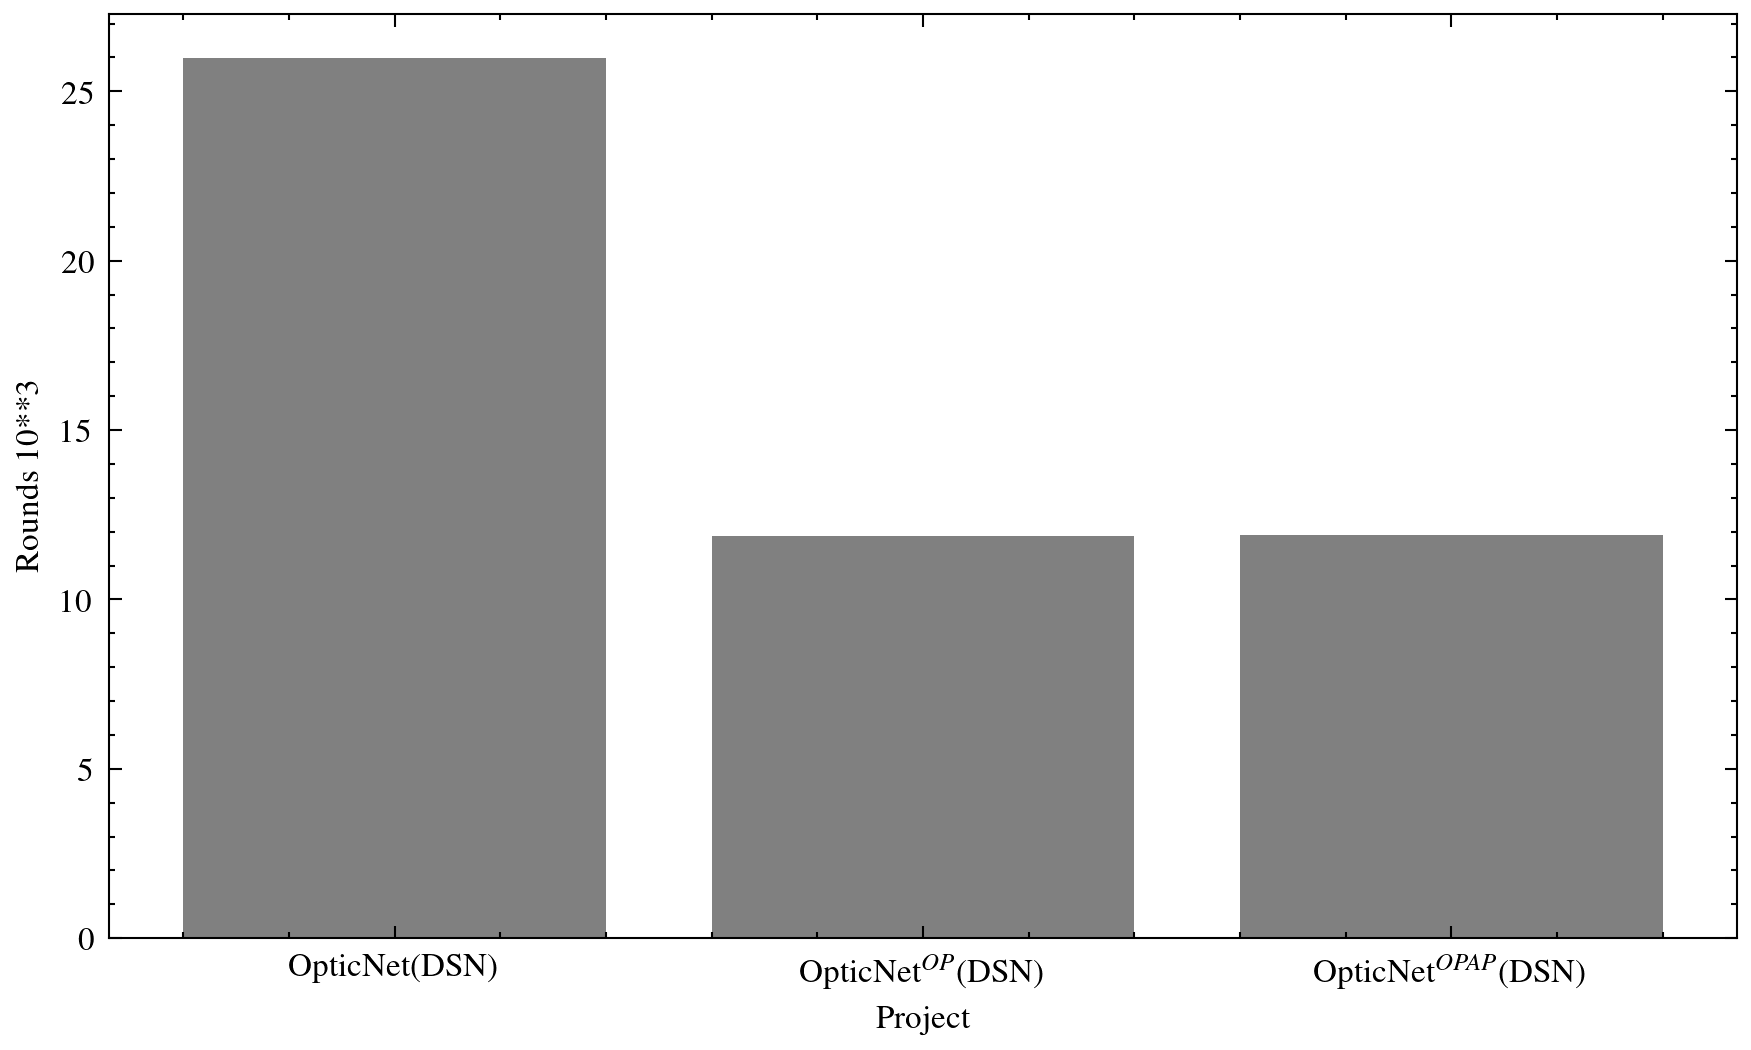
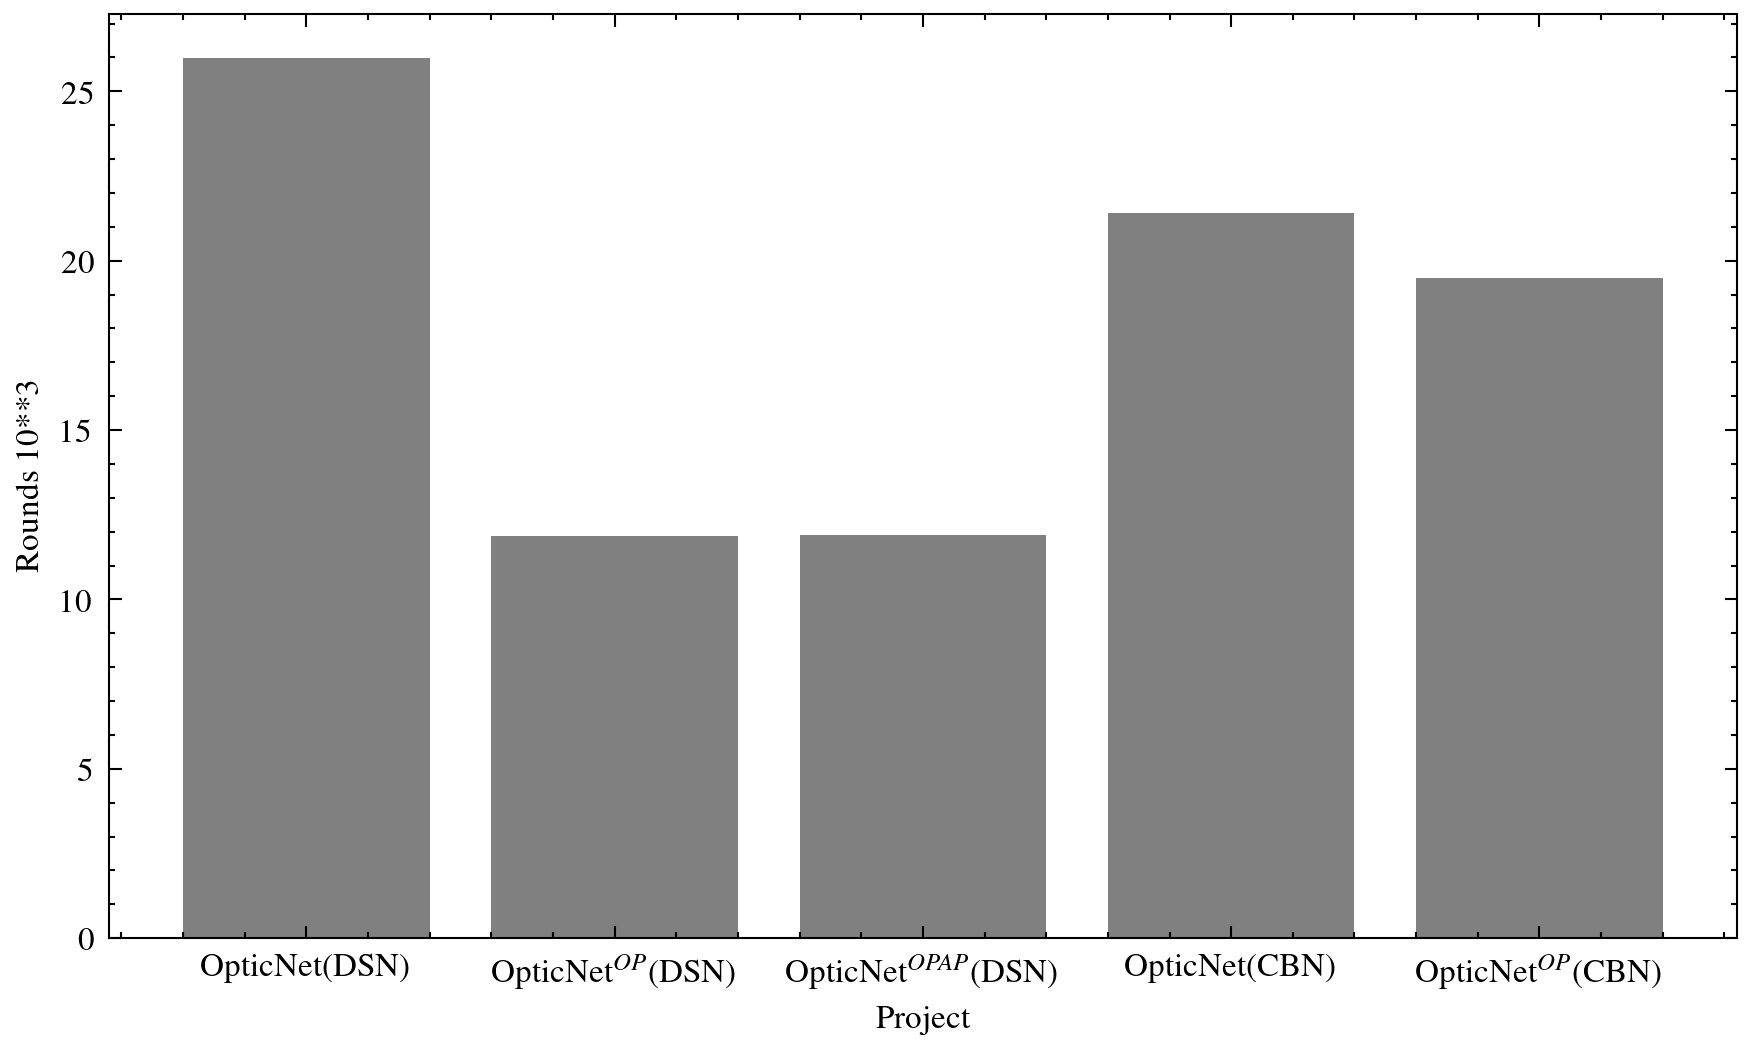
added plot for throughput

Changed region(s): [[0.1234, 0.0305, 0.956, 0.9448]]

diff --git a/scripts_win/throughput.py b/scripts_win/throughput.py
@@ -1,0 +1,64 @@
+#! /usr/bin/env python
+
+import sys
+import os
+import numpy as np
+
+#projects = ["cbnet", "cbnetAdapt", "seqcbnet", "displaynet", "splaynet"]
+projects = ["CBN", "CBNHL", "DSN", "DSNHL", "DSNHLAP"]
+numberOfNodes = [128]
+swtichSize = []
+numberOfSimulations = 1
+
+#x = [0.2, 0.4, 0.8, 1]
+#y = [0.2, 0.4, 0.8, 1]
+x = [0.4]
+y = [1]
+
+abbr: dict[str, str] = {
+    "CBN": "CBOpticalNet-master",
+    "CBNHL": "CBOpticalNet",
+    "DSN": "SemiDisplayOpticNet-master",
+    "DSNHL" : "SemiDisplayOpticNet",
+    "DSNHLAP": "SemiDisplayOpticNet-AP"
+}
+
+fullProject: dict[str, str] = {
+    "CBN": "cbOptNet",
+    "CBNHL": "cbOptNet",
+    "DSN": "semiDisplayOpticNet",
+    "DSNHL" : "semiDisplayOpticNetHL",
+    "DSNHLAP": "semiDisplayOpticNetHLAP"
+}
+
+#input_dir = "../../../Data/bursty"
+output_file = "../csv_data/bursty/throughput.csv"
+
+pr_file = open(output_file, "w")
+pr_file.write("project,x,y,size,value\n")
+
+for idx_1 in x:
+    for idx_2 in y:
+        for project in projects:
+            for n in numberOfNodes:
+                if "CBN" in project:
+                    cluster_path = "../../{}/logs/output/bursty-{}-{}/{}_{}/{}/mirrored/4/{}/throughput.csv".format(abbr[project], idx_1, idx_2, fullProject[project], n, n*2, numberOfSimulations)
+                else:
+                    cluster_path = "../../{}/logs/output/bursty-{}-{}/{}_{}/{}/4/{}/throughput.csv".format(abbr[project], idx_1, idx_2, fullProject[project], n, n*2, numberOfSimulations)
+                
+                with open(cluster_path) as f:
+                    content = f.readlines()
+                
+                num_rounds = int(content[-1].split(',')[1])
+                print(num_rounds)
+                requests_by_round = np.zeros(num_rounds+1)
+                #content = [int(x.strip()) for x in content]
+                
+                for line in content[1:]:
+                    num_round = int(line.split(',')[1])
+                    requests_by_round[num_round] = int(line.split(',')[2])
+                    #print(num_round)
+                for i in range(1,num_rounds+1):
+                    pr_file.write("{},{},{},{},{}\n".format(project, idx_1, idx_2, n, requests_by_round[i]))
+        
+pr_file.close()

diff --git a/plotter/DataReader.py b/plotter/DataReader.py
@@ -19,6 +19,7 @@ class DataReader:
 
     def __post_init__ (self) -> None:
         self.max_rounds = -1
+        print(self.file_path)
         for sim_id in range(1, self.num_sims + 1):
             with open(self.file_path / f"{sim_id}/simulation_info.txt") as sim_file:
                 self.max_rounds = max(
@@ -156,7 +157,7 @@ class DataReader:
             total_routing[sim_id - 1] = file_df.loc[file_df.name=="message-routing", "sum"].item()
             #print(self.file_path / f"{sim_id}/operations.csv")
             
-            total_alterations[sim_id - 1] = int(file_df.loc[file_df.name=="alteration", "sum"].item())
+            total_alterations[sim_id - 1] = int(file_df.loc[file_df.name=="link-alteration", "sum"].item())
 
         total_work = total_routing + total_alterations
 
@@ -192,7 +193,7 @@ class DataReader:
                     if line.startswith("num-rounds,"):
                         # Split the line by comma and get the second part
                         num_rounds = line.split(",")[1]
-                        print(int(num_rounds))
+                        #print(int(num_rounds))
                         total_rounds[sim_id - 1] = int(num_rounds)
                         break
 

diff --git a/plotter/plot_script.py b/plotter/plot_script.py
@@ -26,8 +26,8 @@ reload(Plotter)
 projects = [ "semiDisplayOpticNet",
 "semiDisplayOpticNetHL",
 "semiDisplayOpticNetHLAP",
-#"cbOptNet",
-#"cbOptNetHL",
+"cbOptNet",
+"cbOptNetHL",
 #,"SplayOpticNet"
 ]
 
@@ -95,6 +95,10 @@ for i in range(num_datasets):
 
     # In[9]:
     
+    '''fig, ax = plt.subplots(figsize=(7, 4))
+    ax.set_ylabel("Work 10**4")
+    ax.set_xlabel("Project")
+    '''
     fig, ax = plt.subplots(figsize=(7, 4))
     ax.set_ylabel("Work 10**4")
     ax.set_xlabel("Project")
